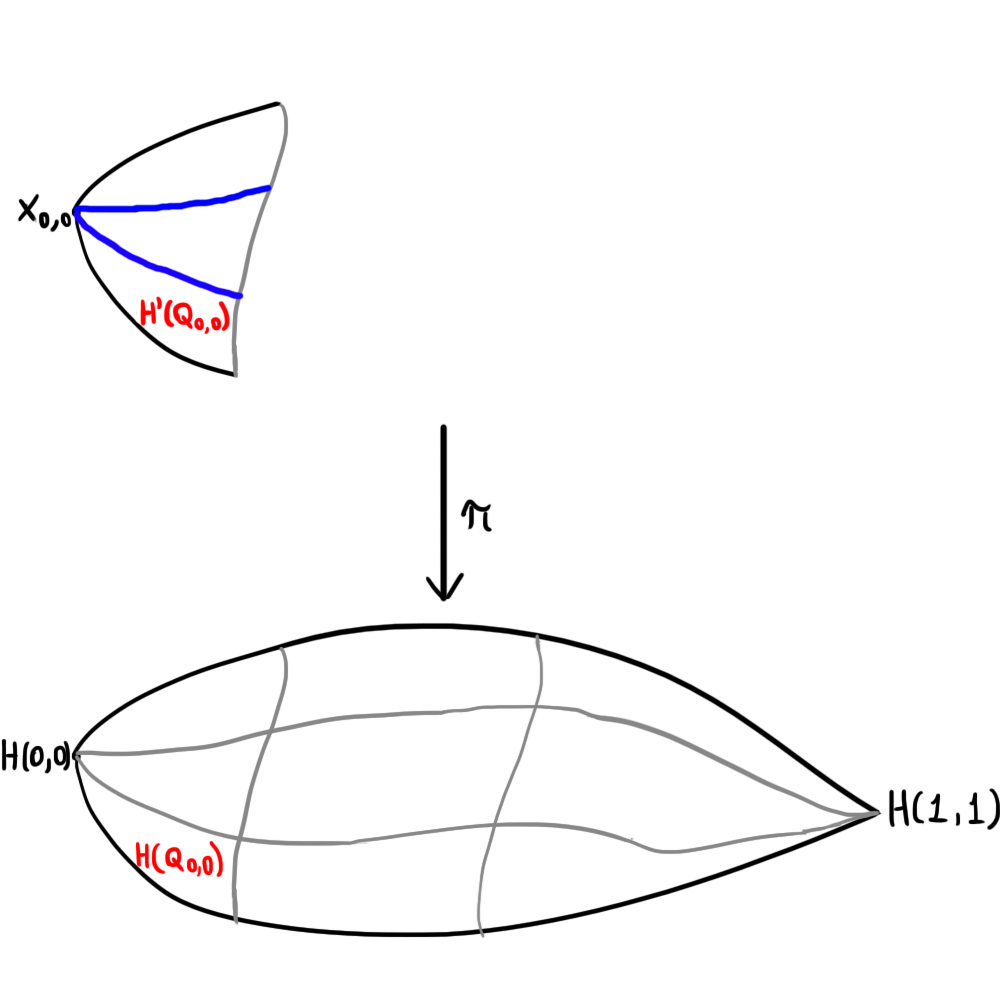
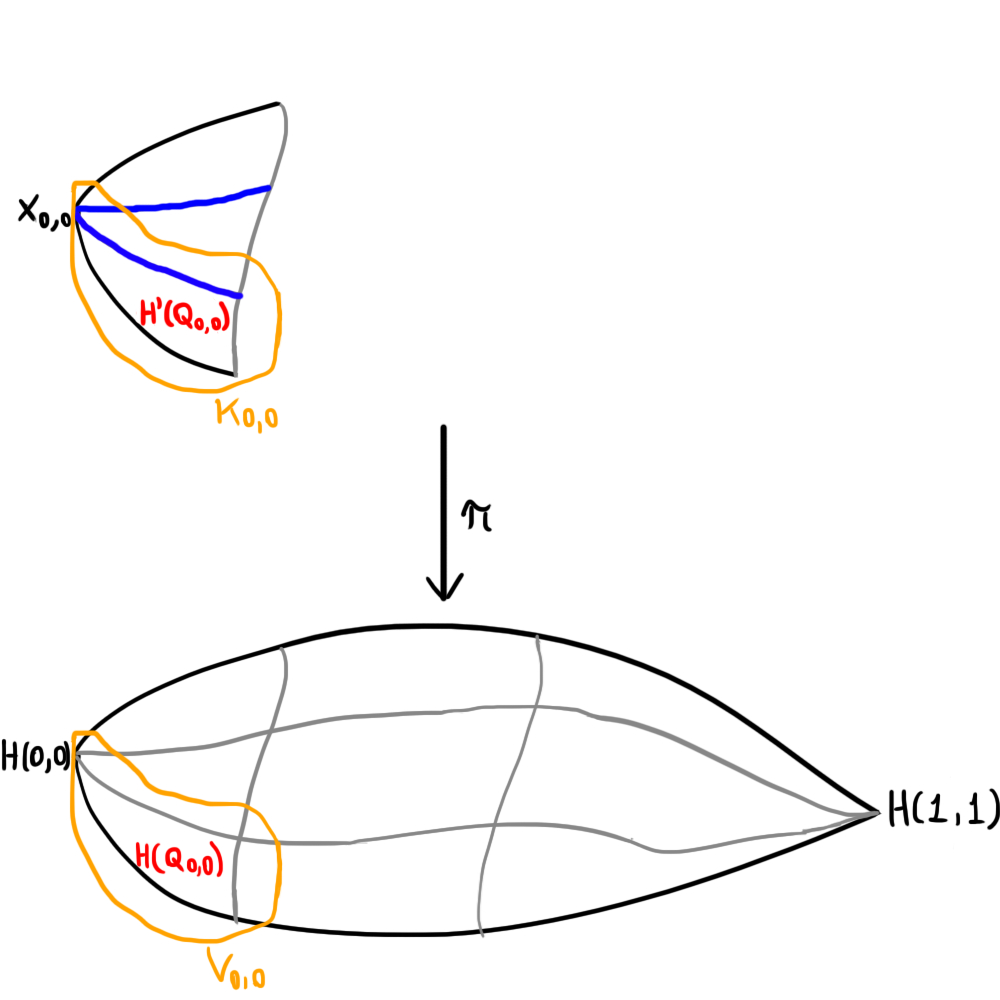
gbdgfd

diff --git a/notes/fundamental-group/03.html b/notes/fundamental-group/03.html
@@ -204,7 +204,7 @@
         <img class="h-25 rounded mx-auto d-block" src="03/exemplo-qij.png" alt="Responsive image">
         <p class="text-center">Exemplo da cobertura $\{Q_{i,j}\}_{0 \leq i,j \leq n-1}$ com $n = 3$.</p>
 
-        <p class="text-justify"> Para construirmos o levantamento, primeiro vamos levantar cada um dos quadrados: dado um quadrado $  Q_{i,j}$ temos a vizinhança $V_{i,j}$ já definida no parágrafo passado. Seja $K_{i,j} \subset X$ uma vizinhança qualquer homeomorfa à $V_{i,j}$. Podemos definir então $H'|_{Q_{i,j}}(x,t) = (\pi|_{K_{i,j}})^{-1}(H(x,t))$. O problema agora mora em fazer com que essa função $H'$ seja contínua. Faremos isso garantindo que levantamentos coincidam nas bordas dos quadrados $Q_{i,j}$ e, para isso, basta escolhermos as vizinhanças $K_{i,j}$ certas.</p>
+        <p class="text-justify"> Para construirmos o levantamento, primeiro vamos levantar cada um dos quadrados: dado um quadrado $  Q_{i,j}$ temos a vizinhança $V_{i,j}$ já definida no parágrafo passado. Seja $K_{i,j} \subset X$ uma vizinhança qualquer homeomorfa à $V_{i,j}$. Podemos definir então $H'|_{Q_{i,j}}(x,t) = (\pi|_{K_{i,j}})^{-1}(H(x,t))$. O problema agora mora em fazer com que essa função $H'$ seja contínua. Faremos isso garantindo que levantamentos coincidam nas bordas dos quadrados $H(Q_{i,j})$ e, para isso, basta escolhermos as vizinhanças $K_{i,j}$ certas.</p>
 
         <p class="text-justify">A escolha das vizinhanças $K_{i,j}$ será feita da seguinte forma: para cada $V_{0,j}$ temos que $H(0,0) \in V_{0,j}$ e portanto basta fixarmos um ponto $x_0 \in \pi^{-1}(H(0,0))$ e tomarmos as vizinhanças $K_{0,j}$ como sendo as que contém o ponto $x_0$. Note que dessa maneira fazemos com que as bordas compartilhadas pelos quadrados (destacadas em azul na figura abaixo) comecem todas em $x_0$ e assim pela <b>Proposição 21</b> elas devem coincidir.</p>
 
